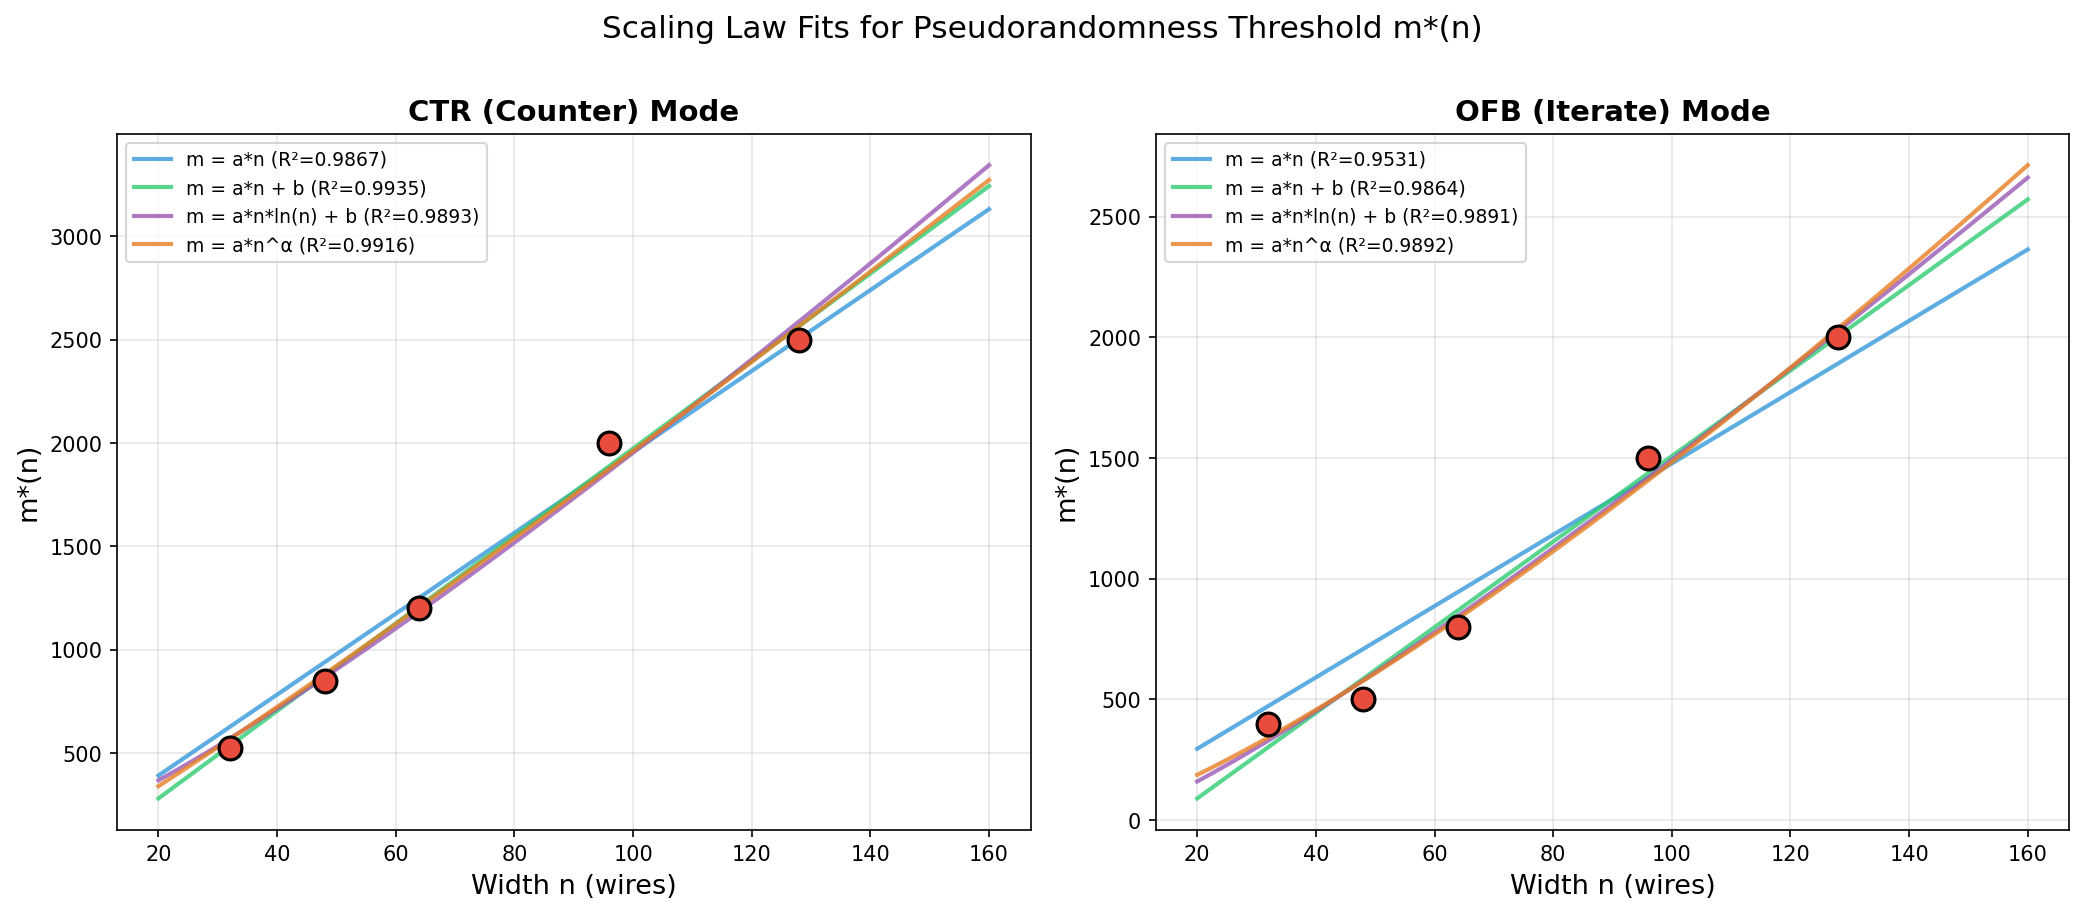
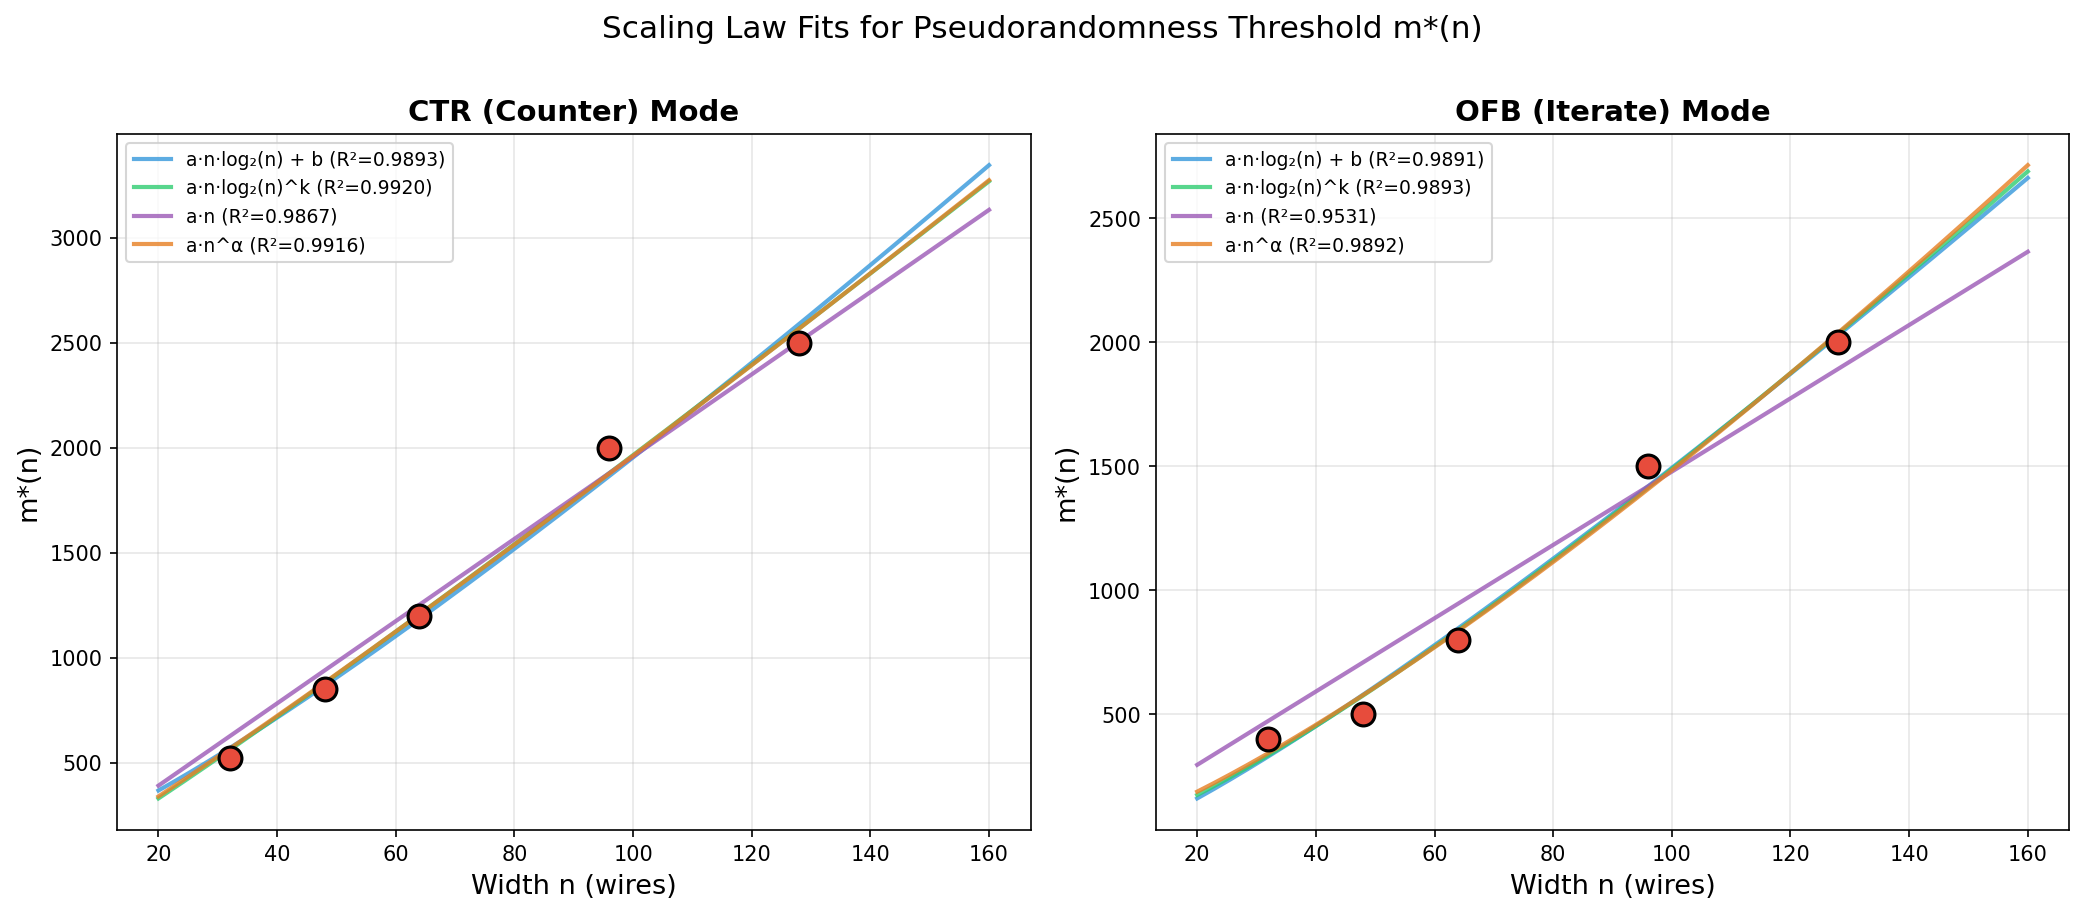
Update scaling law fits with theory-motivated models
n·log₂(n) (Chamon et al.) and n·log₂(n)^k (gate-57 conjecture).
5 data points cannot distinguish scaling forms — need more widths.

diff --git a/rng/RESULTS.md b/rng/RESULTS.md
@@ -127,20 +127,25 @@ m\*(48) from ~1000 to ~850, m\*(128) from ~3000 to ~2500.
 
 ### Scaling Law Fits
 
+Theory-motivated models from Chamon et al.: the tree-organized circuit with
+inflationary + nonlinear gates achieves O(n log n) gate count (NC1 depth O(log n)).
+For gate-57-only circuits (no inflation), depth is at least (log n)^k with k > 1,
+giving gate count n · (log n)^k.
+
 | Model | CTR parameters | CTR R² | OFB parameters | OFB R² |
 |-------|---------------|--------|---------------|--------|
-| m = a·n | a=19.6 | 0.987 | a=14.8 | 0.953 |
-| m = a·n + b | a=21.2, b=−142 | **0.993** | a=17.7, b=−265 | 0.986 |
-| m = a·n·ln(n) + b | a=4.0, b=131 | 0.989 | a=3.3, b=−39 | 0.989 |
-| m = a·n^α | a=13.0, α=1.09 | 0.992 | a=4.0, α=1.29 | **0.989** |
+| a·n·log₂(n) + b | a=2.74, b=131 | 0.989 | a=2.31, b=−39 | 0.989 |
+| a·n·log₂(n)^k | a=9.20, k=0.40 | **0.992** | a=1.41, k=1.25 | **0.989** |
+| a·n | a=19.6 | 0.987 | a=14.8 | 0.953 |
+| a·n^α | a=13.0, α=1.09 | 0.992 | a=4.0, α=1.29 | 0.989 |
 
-**Best fit (CTR): m\*(n) ≈ 21n − 142** (affine, R²=0.993). The simple m=20n
-approximation works well (R²=0.987). All models fit within 2% R², so 5 data
-points cannot clearly distinguish linear from weakly superlinear scaling.
+All models fit within 1% R² for CTR — with only 5 data points, we cannot
+distinguish linear, n·log(n), or weakly superlinear scaling. The theoretical
+n·log₂(n)^k model gives k ≈ 0.4 for CTR (sublinear in log n, i.e. nearly linear
+overall) and k ≈ 1.25 for OFB. More widths (e.g. n=256, 512) are needed to
+resolve the scaling exponent.
 
-**OFB scaling is slightly superlinear** (α=1.29 for power law), but this may
-reflect insufficient data at low n where OFB transitions are hard to pin down
-with R=20.
+For practical purposes, **m\*(n) ≈ 20n** remains a good working estimate for CTR.
 
 ---
 
